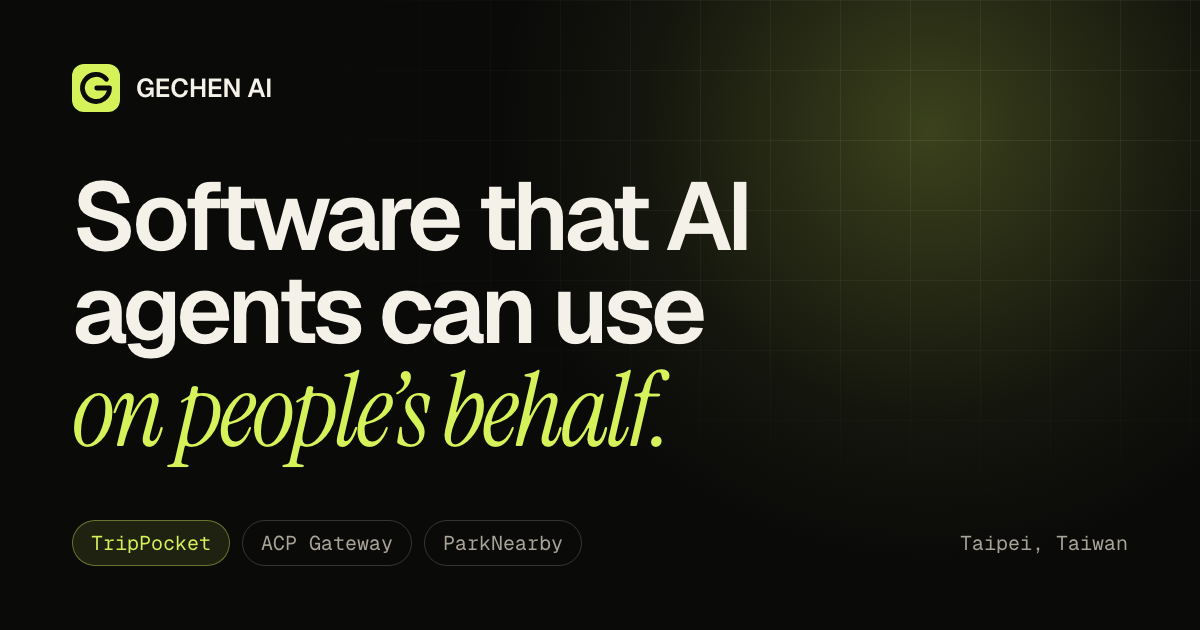
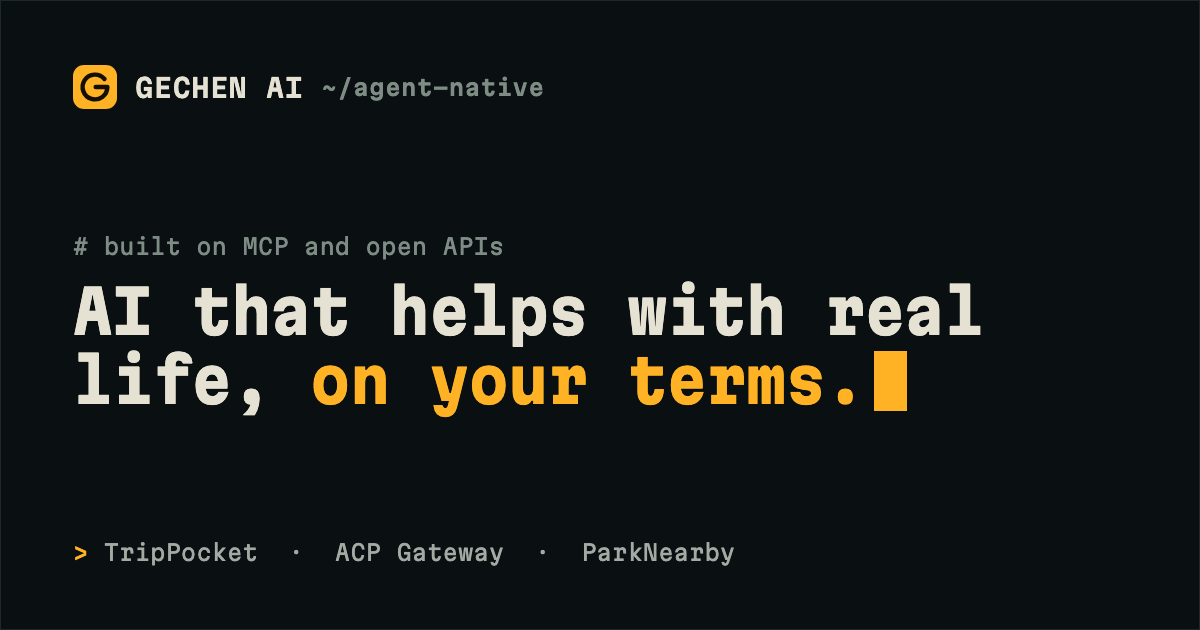
content: new slogan 'AI that helps with real life, on your terms'

diff --git a/index.html b/index.html
@@ -3,7 +3,7 @@
 <head>
   <meta charset="utf-8" />
   <meta name="viewport" content="width=device-width, initial-scale=1" />
-  <title>GECHEN AI — Software that AI agents can use on people’s behalf</title>
+  <title>GECHEN AI — AI that helps with real life, on your terms</title>
   <meta name="description" content="GECHEN AI is an early-stage startup in Taipei building agent-native products: TripPocket, an agent-ready travel knowledge layer over MCP, ACP Gateway, open-source remote access to coding agents, and ParkNearby for iOS." />
   <meta name="theme-color" content="#0a1011" />
   <meta name="color-scheme" content="dark" />
@@ -13,14 +13,14 @@
   <meta property="og:type" content="website" />
   <meta property="og:site_name" content="GECHEN AI" />
   <meta property="og:url" content="https://landing.gechen.org/" />
-  <meta property="og:title" content="GECHEN AI — Software that AI agents can use on people’s behalf" />
+  <meta property="og:title" content="GECHEN AI — AI that helps with real life, on your terms" />
   <meta property="og:description" content="Agent-native products built on MCP and open APIs. TripPocket · ACP Gateway · ParkNearby." />
   <meta property="og:image" content="https://landing.gechen.org/assets/og.png" />
   <meta property="og:image:width" content="1200" />
   <meta property="og:image:height" content="630" />
-  <meta property="og:image:alt" content="GECHEN AI — software that AI agents can use on people’s behalf" />
+  <meta property="og:image:alt" content="GECHEN AI — AI that helps with real life, on your terms" />
   <meta name="twitter:card" content="summary_large_image" />
-  <meta name="twitter:title" content="GECHEN AI — Software that AI agents can use on people’s behalf" />
+  <meta name="twitter:title" content="GECHEN AI — AI that helps with real life, on your terms" />
   <meta name="twitter:description" content="Agent-native products built on MCP and open APIs. TripPocket · ACP Gateway · ParkNearby." />
   <meta name="twitter:image" content="https://landing.gechen.org/assets/og.png" />
 
@@ -387,11 +387,11 @@
     <!-- ───────── HERO ───────── -->
     <section class="hero">
       <div class="wrap">
-        <h1>Software that AI&nbsp;agents can use on people’s behalf.</h1>
+        <h1>AI that helps with real&nbsp;life, on your&nbsp;terms.</h1>
 
         <div class="panes">
           <div class="pane-copy">
-            <p class="lead">GECHEN AI builds agent-native products: <strong>durable knowledge, permissions and tools</strong> that work with any agent through MCP and open APIs.</p>
+            <p class="lead">GECHEN AI builds products that let AI agents use <strong>your knowledge and tools, with sources you can check and access you can revoke</strong>. They work with any agent through MCP and open APIs.</p>
             <div class="cta-row">
               <a class="btn btn-primary" href="https://trip-pocket.gechen.org" target="_blank" rel="noopener noreferrer">Open TripPocket <svg class="ico" aria-hidden="true"><use href="#i-out"/></svg><span class="vh"> (opens in a new tab)</span></a>
               <a class="btn btn-ghost" href="https://github.com/bamoo456/cloud-acp-gateway" target="_blank" rel="noopener noreferrer"><svg class="ico fill" aria-hidden="true"><use href="#i-gh"/></svg> ACP Gateway on GitHub<span class="vh"> (opens in a new tab)</span></a>
@@ -628,7 +628,7 @@
         <div class="company">
           <div>
             <h2 id="company-h"><span class="ps" aria-hidden="true">&gt;</span>Independent, founder-led, early.</h2>
-            <p class="big">GECHEN AI is an early-stage startup in Taipei. <strong>We build software that AI agents can use on people’s behalf</strong>, and we keep it open to any agent through MCP and open APIs.</p>
+            <p class="big">GECHEN AI is an early-stage startup in Taipei. <strong>We build AI that helps with real life, on your terms</strong>, and we keep it open to any agent through MCP and open APIs.</p>
           </div>
           <dl class="sheet">
             <div><dt>Founder</dt><dd>George Chen<small>Software &amp; AI systems engineer</small></dd></div>
